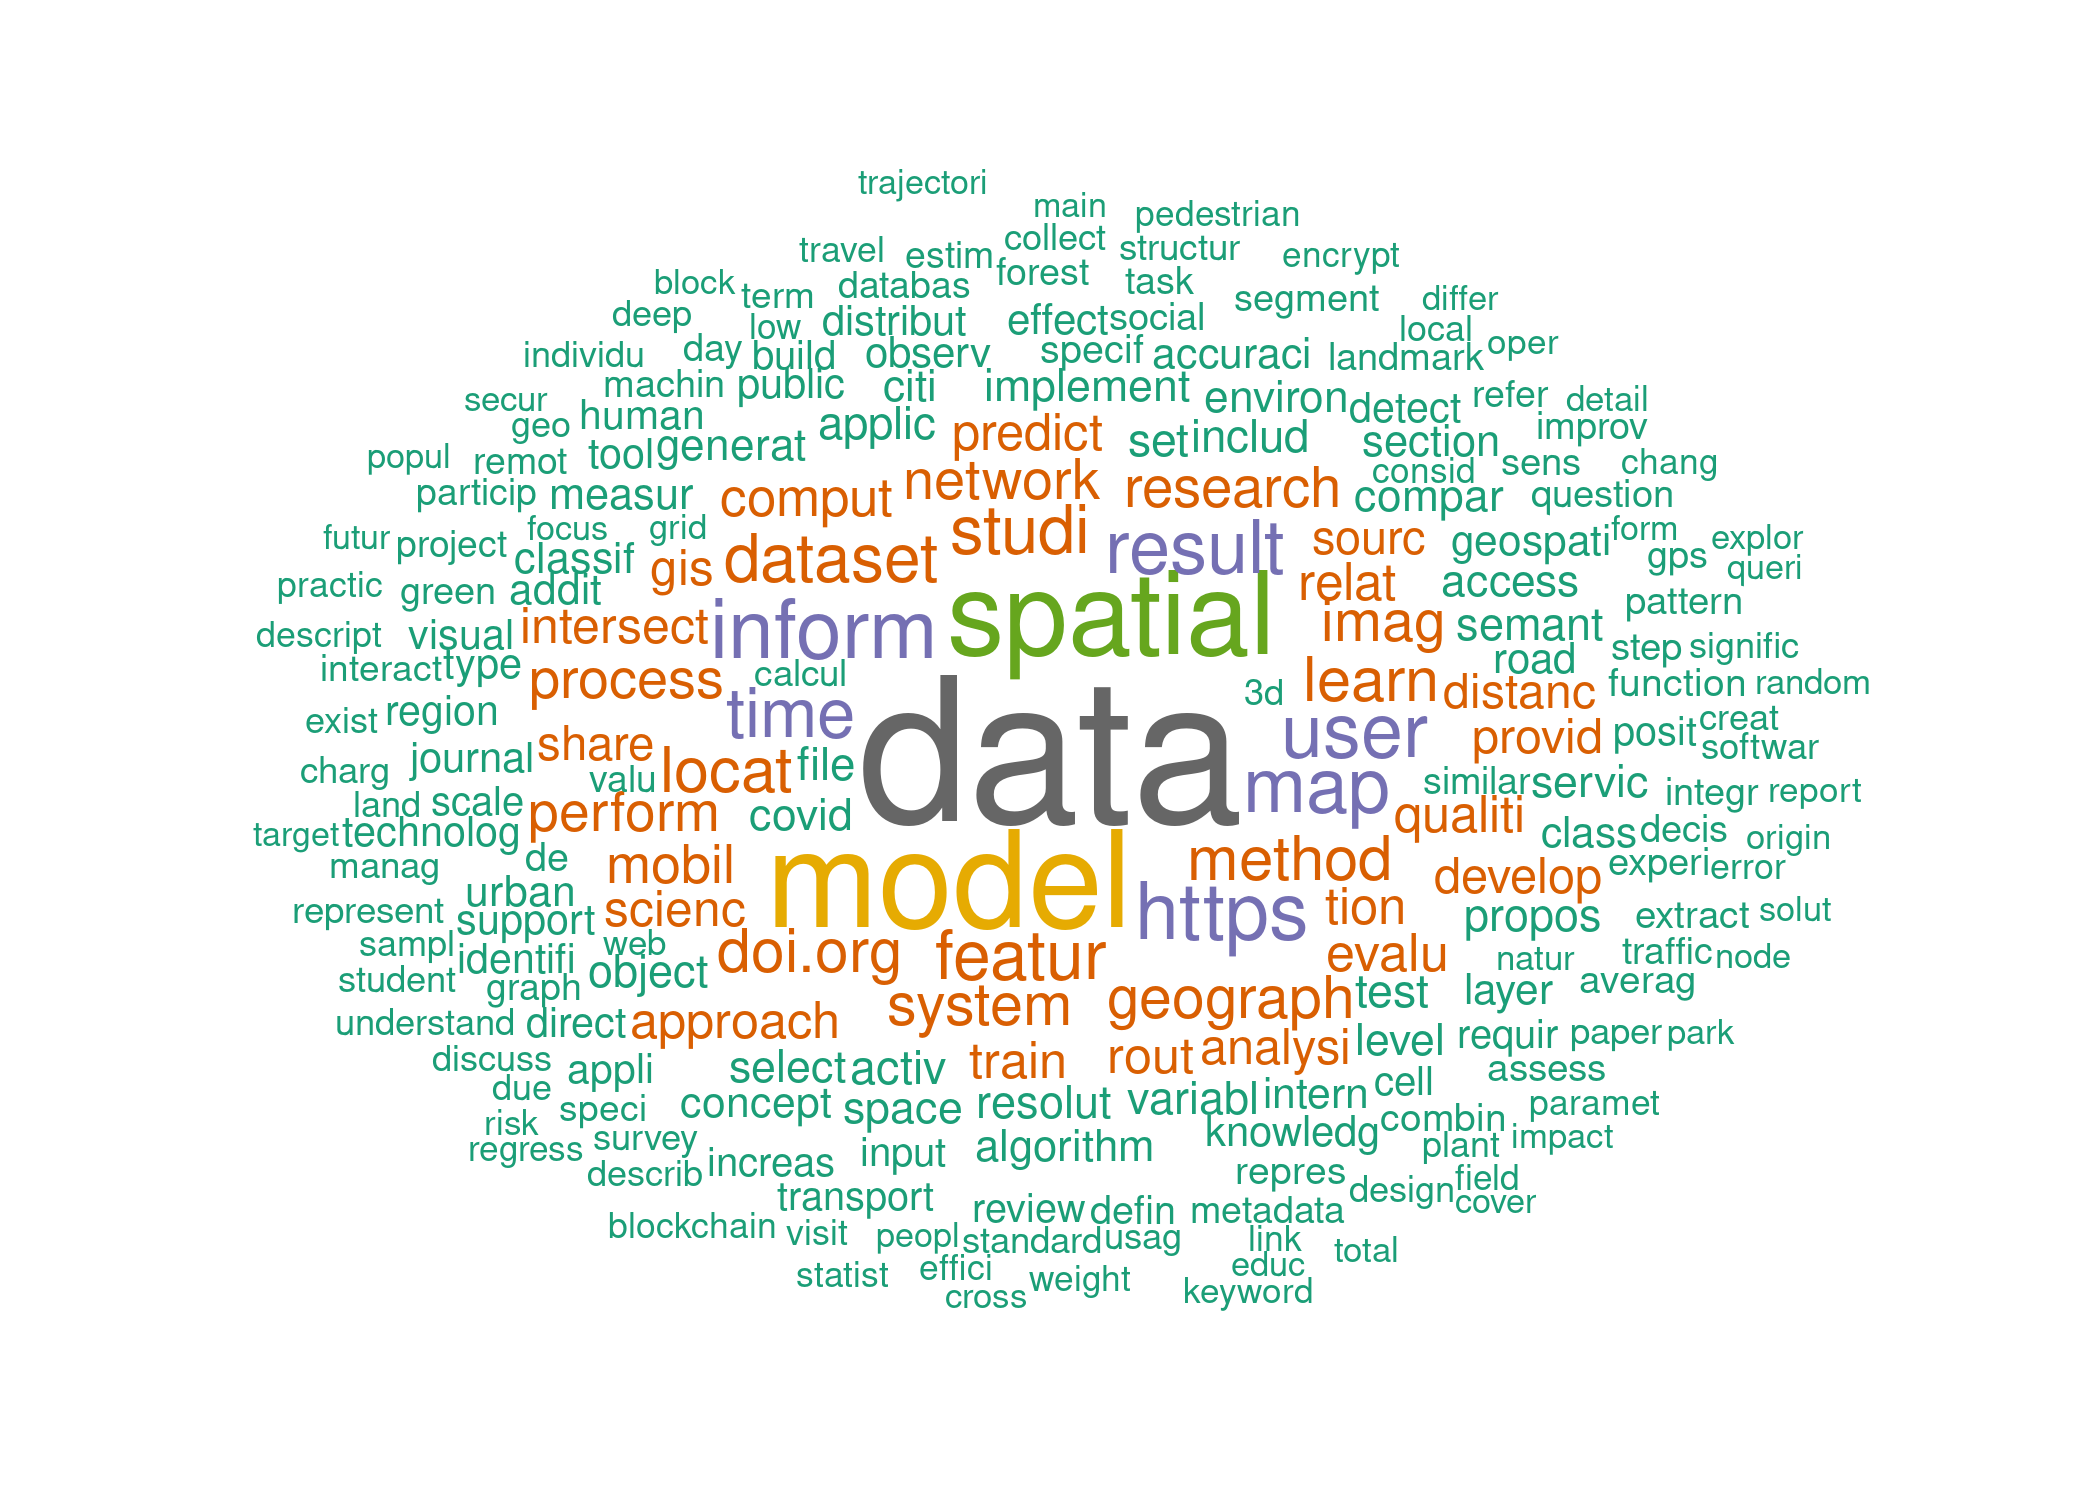
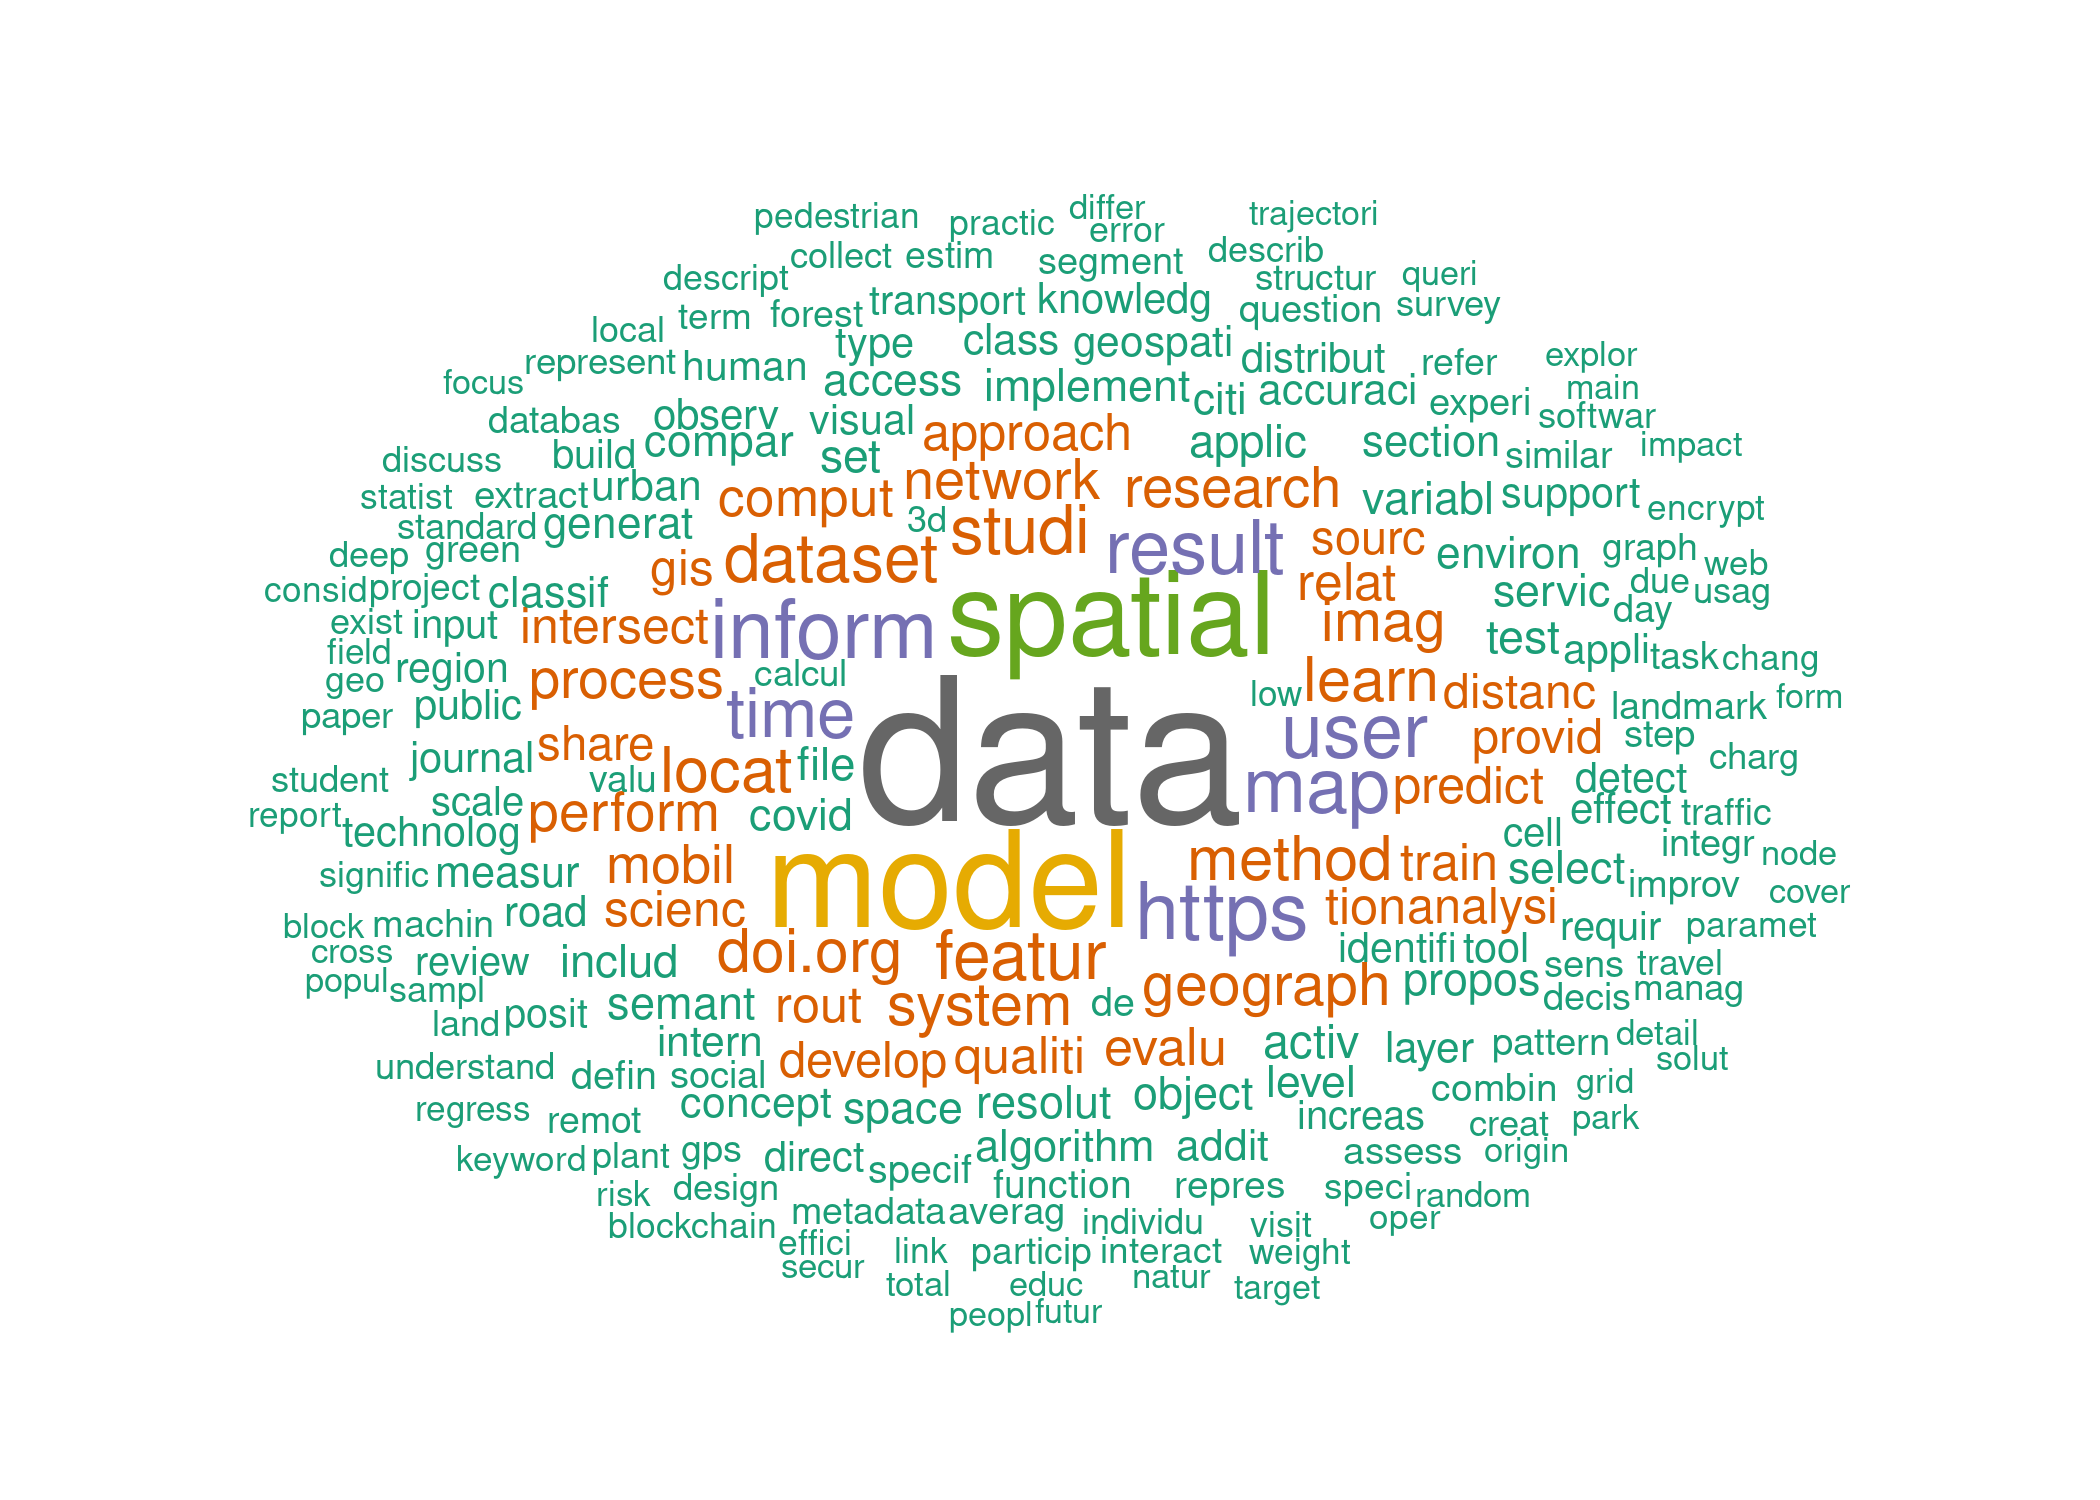
update public report

diff --git a/docs/agile-reproducibility-reviews.html b/docs/agile-reproducibility-reviews.html
@@ -172,7 +172,7 @@ pre code {
 
 <h1 class="title toc-ignore">Reproducibility Review AGILE 2022</h1>
 <h4 class="author">Daniel Nüst</h4>
-<h4 class="date">30 May, 2022</h4>
+<h4 class="date">07 June, 2022</h4>
 
 </div>
 
@@ -321,8 +321,8 @@ as <code>figure</code>.</p>
 ## Reading  /home/rstudio/submissions/038.pdf 
 ## Reading  /home/rstudio/submissions/039.pdf 
 ## Reading  NA</code></pre>
-<pre><code>## Warning: No text available for paper 040 High frequency land cover classification method for supporting
-## global monitoring</code></pre>
+<pre><code>## Warning: No text available for paper 040 High frequency land cover classification method for supporting global
+## monitoring</code></pre>
 <pre><code>## Reading  /home/rstudio/submissions/041.pdf 
 ## Reading  /home/rstudio/submissions/043.pdf 
 ## Reading  /home/rstudio/submissions/044.pdf 
@@ -471,10 +471,10 @@ Full-paper submission
 Full-paper submission
 </td>
 <td style="text-align:right;">
-9246
+9241
 </td>
 <td style="text-align:right;">
-4981
+4976
 </td>
 </tr>
 <tr>
@@ -504,10 +504,10 @@ Full-paper submission
 Full-paper submission
 </td>
 <td style="text-align:right;">
-8739
+8771
 </td>
 <td style="text-align:right;">
-4253
+4272
 </td>
 </tr>
 <tr>
@@ -834,10 +834,10 @@ Short-paper submission
 Short-paper submission
 </td>
 <td style="text-align:right;">
-1626
+1604
 </td>
 <td style="text-align:right;">
-833
+828
 </td>
 </tr>
 <tr>
@@ -1252,10 +1252,10 @@ Short-paper submission
 Full-paper submission:24|Short-paper submission:54
 </td>
 <td style="text-align:right;font-weight: bold;">
-342612
+342617
 </td>
 <td style="text-align:right;font-weight: bold;">
-171433
+171442
 </td>
 </tr>
 </tbody>
@@ -1330,7 +1330,7 @@ The following table shows the first 800 characters of these sections.
 based on a stemming algorithm from package <a
 href="https://cran.r-project.org/package=quanteda"><code>quanteda</code></a>.
 The word cloud is based on 353 unique words occuring each at least 100
-times, all in all occuring 79513 times which comprises 46 % of non-stop
+times, all in all occuring 79517 times which comprises 46 % of non-stop
 words.</p>
 <div
 style="border: 1px solid #ddd; padding: 0px; overflow-y: scroll; height:320px; ">
@@ -1363,7 +1363,7 @@ n
 data
 </td>
 <td style="text-align:right;">
-2746
+2744
 </td>
 <td style="text-align:right;">
 75
@@ -1380,7 +1380,7 @@ data
 model
 </td>
 <td style="text-align:right;">
-1719
+1720
 </td>
 <td style="text-align:right;">
 69
@@ -1397,7 +1397,7 @@ model
 spatial
 </td>
 <td style="text-align:right;">
-1406
+1405
 </td>
 <td style="text-align:right;">
 72
@@ -1431,7 +1431,7 @@ inform
 https
 </td>
 <td style="text-align:right;">
-849
+850
 </td>
 <td style="text-align:right;">
 62
@@ -1465,7 +1465,7 @@ map
 user
 </td>
 <td style="text-align:right;">
-790
+791
 </td>
 <td style="text-align:right;">
 49
@@ -1482,7 +1482,7 @@ user
 result
 </td>
 <td style="text-align:right;">
-770
+771
 </td>
 <td style="text-align:right;">
 73
@@ -1584,7 +1584,7 @@ locat
 method
 </td>
 <td style="text-align:right;">
-579
+578
 </td>
 <td style="text-align:right;">
 69
@@ -1618,7 +1618,7 @@ learn
 doi.org
 </td>
 <td style="text-align:right;">
-559
+560
 </td>
 <td style="text-align:right;">
 45
@@ -2010,7 +2010,7 @@ Full-paper submission
 TRUE
 </td>
 <td style="text-align:right;font-style: italic;background-color: #eeeeee !important;">
-2
+5
 </td>
 <td style="text-align:right;font-style: italic;background-color: #eeeeee !important;">
 0
@@ -2043,7 +2043,7 @@ TRUE
 2
 </td>
 <td style="text-align:right;font-style: italic;background-color: #eeeeee !important;">
-153
+156
 </td>
 </tr>
 <tr>
@@ -3008,10 +3008,10 @@ TRUE
 0
 </td>
 <td style="text-align:right;font-style: italic;background-color: #eeeeee !important;">
-1
+2
 </td>
 <td style="text-align:right;font-style: italic;background-color: #eeeeee !important;">
-72
+73
 </td>
 </tr>
 <tr>
@@ -3386,7 +3386,7 @@ FALSE
 0
 </td>
 <td style="text-align:right;">
-4
+3
 </td>
 <td style="text-align:right;">
 1
@@ -3395,10 +3395,10 @@ FALSE
 4
 </td>
 <td style="text-align:right;">
-47
+48
 </td>
 <td style="text-align:right;">
-4
+5
 </td>
 <td style="text-align:right;">
 1
@@ -3407,7 +3407,7 @@ FALSE
 2
 </td>
 <td style="text-align:right;">
-63
+64
 </td>
 </tr>
 <tr>
@@ -5385,10 +5385,6 @@ googlesheets4::range_read(
 ```
 
 ```
-## Auto-refreshing stale OAuth token.
-```
-
-```
 ## ✓ Reading from "AGILE Reproducibility Reviews 2022".
 ```
 
@@ -5619,8 +5615,8 @@ href="https://choosealicense.com/licenses/apache-2.0/">Apache License
 ## [56] evaluate_0.15       qpdf_1.1            RcppParallel_5.1.5  modelr_0.1.8        tabulizerjars_1.0.1
 ## [61] selectr_0.4-2       png_0.1-7           vctrs_0.3.8         tzdb_0.2.0          cellranger_1.1.0   
 ## [66] openssl_2.0.0       gtable_0.3.0        rematch2_2.1.2      assertthat_0.2.1    xfun_0.30          
-## [71] broom_0.7.12        janeaustenr_0.1.5   viridisLite_0.4.0   gargle_1.2.0        rJava_1.0-6        
-## [76] ellipsis_0.3.2</code></pre>
+## [71] broom_0.7.12        janeaustenr_0.1.5   viridisLite_0.4.0   rsconnect_0.8.25    gargle_1.2.0       
+## [76] rJava_1.0-6         ellipsis_0.3.2</code></pre>
 <p><strong>The used MRAN snapshot is <a
 href="https://packagemanager.rstudio.com/cran/__linux__/focal/latest"
 class="uri">https://packagemanager.rstudio.com/cran/__linux__/focal/latest</a></strong>.</p>
